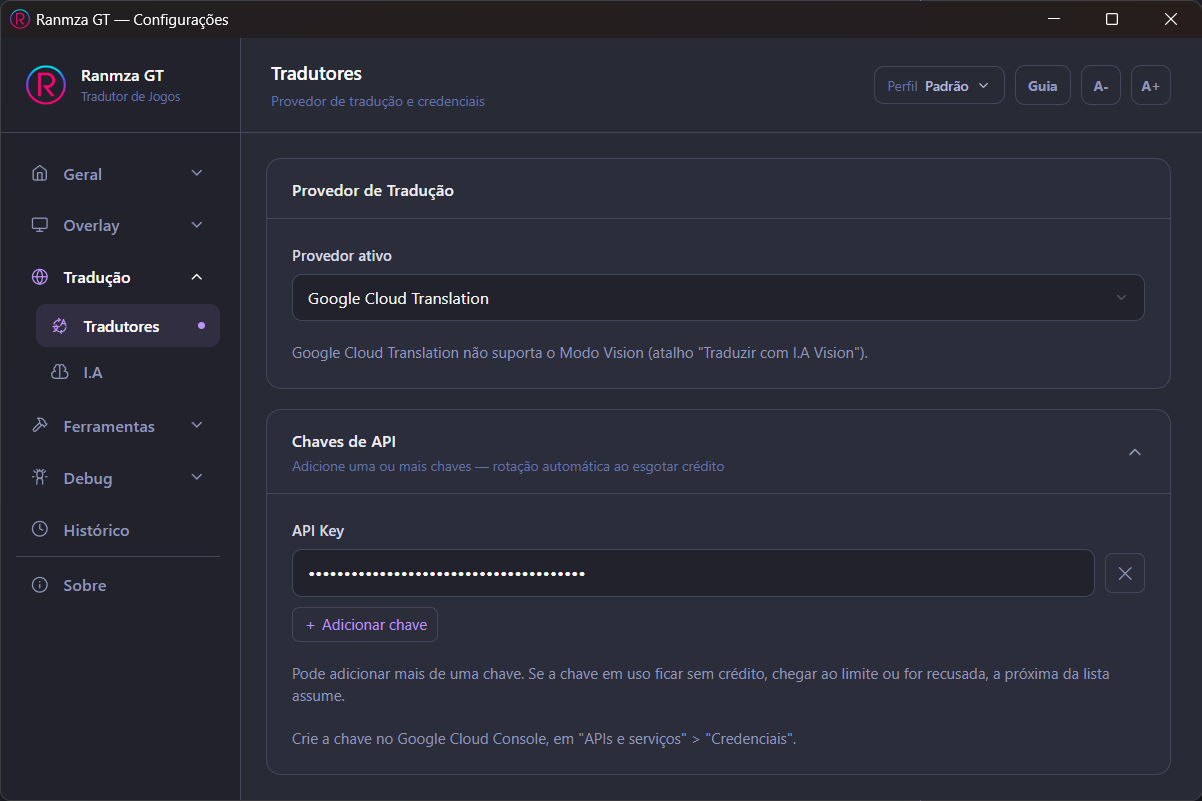
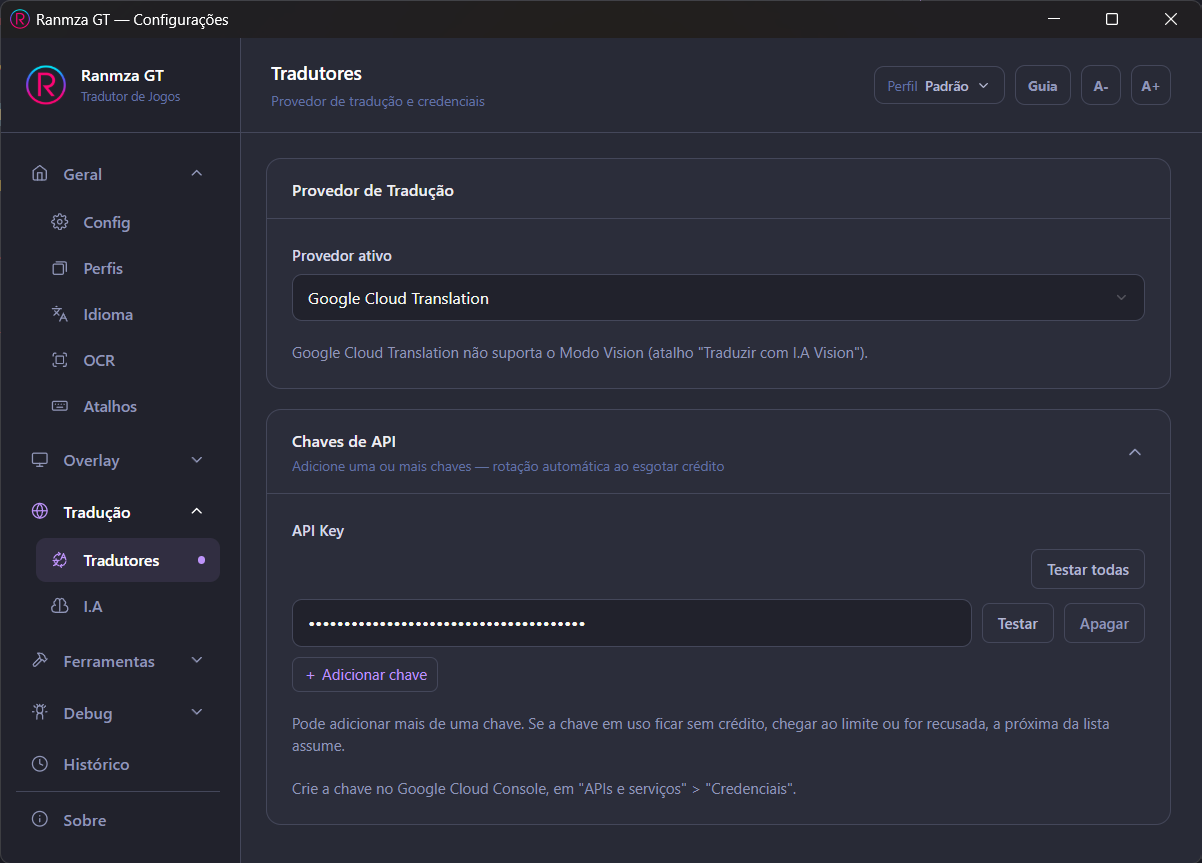
docs(manual): botões Testar, Testar todas e Apagar nas chaves de API

diff --git a/_src/manual_en.md b/_src/manual_en.md
@@ -822,7 +822,11 @@ Which service translates and with which keys.
   - *OpenAI fast queue* — shows up below the model, only with OpenAI. **It comes off.** When on, OpenAI serves you first, at twice the price per token.
   - *Resource region* (Azure only) — **required**. It accepts the portal spelling ("Brazil South"): capitals and spaces are fixed by themselves. The *See Azure's official region list* link opens Microsoft's table in the browser. Key and region come from the same page: <https://portal.azure.com> → your Translator resource → *Keys and Endpoint*.
 - **API Keys** — collapsible card where the key of the selected service goes. It **opens by itself** while no key is filled in. Keys are stored encrypted and only open on this PC, in your Windows account.
-  - *+ Add key* / *✕* — you can register **as many keys as you want** for the same service. When the key in use is rejected, runs out of credit or hits the request limit, the next one in the list takes over right away; when all are used up, it falls back to Google Translate.
+  - *+ Add key* / *Delete* — you can register **as many keys as you want** for the same service. When the key in use is rejected, runs out of credit or hits the request limit, the next one in the list takes over right away; when all are used up, it falls back to Google Translate.
+  - *Test* — translates one word using only that key, with the chosen model and region. The button turns **green** when the key works and **red** when it fails. Hover over it to see why, such as "invalid key", "out of credit" or "No internet". Editing the key clears the result.
+  - *Test all* — tests the keys in the list one at a time and colors each one's button.
+
+<p align="center"><img src="media/tradutores-testar-chave.png" alt="Test buttons: working key in green and failing key in red" width="820"></p>
 
 <p align="center"><img src="media/tradutores-openai.png" alt="Translators with OpenAI selected" width="820"></p>
 

diff --git a/en/Manual/complete-reference-all-tabs.md b/en/Manual/complete-reference-all-tabs.md
@@ -177,7 +177,11 @@ Which service translates and with which keys.
   - *OpenAI fast queue* — shows up below the model, only with OpenAI. **It comes off.** When on, OpenAI serves you first, at twice the price per token.
   - *Resource region* (Azure only) — **required**. It accepts the portal spelling ("Brazil South"): capitals and spaces are fixed by themselves. The *See Azure's official region list* link opens Microsoft's table in the browser. Key and region come from the same page: <https://portal.azure.com> → your Translator resource → *Keys and Endpoint*.
 - **API Keys** — collapsible card where the key of the selected service goes. It **opens by itself** while no key is filled in. Keys are stored encrypted and only open on this PC, in your Windows account.
-  - *+ Add key* / *✕* — you can register **as many keys as you want** for the same service. When the key in use is rejected, runs out of credit or hits the request limit, the next one in the list takes over right away; when all are used up, it falls back to Google Translate.
+  - *+ Add key* / *Delete* — you can register **as many keys as you want** for the same service. When the key in use is rejected, runs out of credit or hits the request limit, the next one in the list takes over right away; when all are used up, it falls back to Google Translate.
+  - *Test* — translates one word using only that key, with the chosen model and region. The button turns **green** when the key works and **red** when it fails. Hover over it to see why, such as "invalid key", "out of credit" or "No internet". Editing the key clears the result.
+  - *Test all* — tests the keys in the list one at a time and colors each one's button.
+
+<p align="center"><img src="media/tradutores-testar-chave.png" alt="Test buttons: working key in green and failing key in red" width="820"></p>
 
 <p align="center"><img src="media/tradutores-openai.png" alt="Translators with OpenAI selected" width="820"></p>
 

diff --git a/_src/manual.md b/_src/manual.md
@@ -1218,9 +1218,16 @@ Qual serviço traduz e com quais chaves.
 - **Chaves de API** — card recolhível onde entra a chave do serviço selecionado. Ele **abre
   sozinho** enquanto nenhuma chave estiver preenchida. As chaves ficam guardadas criptografadas e
   só abrem neste PC, na sua conta do Windows.
-  - *+ Adicionar chave* / *✕* — dá para cadastrar **quantas chaves quiser** no mesmo serviço.
+  - *+ Adicionar chave* / *Apagar* — dá para cadastrar **quantas chaves quiser** no mesmo serviço.
     Quando a chave em uso é recusada, fica sem crédito ou bate no limite de requisições, a
     próxima da lista assume na hora; esgotadas todas, cai no Google Translate.
+  - *Testar* — traduz uma palavra só com aquela chave, usando o modelo e a região escolhidos. O
+    botão fica **verde** quando a chave funciona e **vermelho** quando falha. Passe o mouse em cima
+    para ver o motivo, como "chave inválida", "sem crédito" ou "Sem internet". Editar a chave
+    apaga o resultado.
+  - *Testar todas* — testa as chaves da lista uma por vez e pinta o botão de cada uma.
+
+<p align="center"><img src="media/tradutores-testar-chave.png" alt="Botões Testar: chave funcionando em verde e chave com problema em vermelho" width="820"></p>
 
 <p align="center"><img src="media/tradutores-openai.png" alt="Tradutores com OpenAI selecionado" width="820"></p>
 

diff --git a/Manual/referencia-completa-todas-as-abas.md b/Manual/referencia-completa-todas-as-abas.md
@@ -264,9 +264,16 @@ Qual serviço traduz e com quais chaves.
 - **Chaves de API** — card recolhível onde entra a chave do serviço selecionado. Ele **abre
   sozinho** enquanto nenhuma chave estiver preenchida. As chaves ficam guardadas criptografadas e
   só abrem neste PC, na sua conta do Windows.
-  - *+ Adicionar chave* / *✕* — dá para cadastrar **quantas chaves quiser** no mesmo serviço.
+  - *+ Adicionar chave* / *Apagar* — dá para cadastrar **quantas chaves quiser** no mesmo serviço.
     Quando a chave em uso é recusada, fica sem crédito ou bate no limite de requisições, a
     próxima da lista assume na hora; esgotadas todas, cai no Google Translate.
+  - *Testar* — traduz uma palavra só com aquela chave, usando o modelo e a região escolhidos. O
+    botão fica **verde** quando a chave funciona e **vermelho** quando falha. Passe o mouse em cima
+    para ver o motivo, como "chave inválida", "sem crédito" ou "Sem internet". Editar a chave
+    apaga o resultado.
+  - *Testar todas* — testa as chaves da lista uma por vez e pinta o botão de cada uma.
+
+<p align="center"><img src="media/tradutores-testar-chave.png" alt="Botões Testar: chave funcionando em verde e chave com problema em vermelho" width="820"></p>
 
 <p align="center"><img src="media/tradutores-openai.png" alt="Tradutores com OpenAI selecionado" width="820"></p>
 
